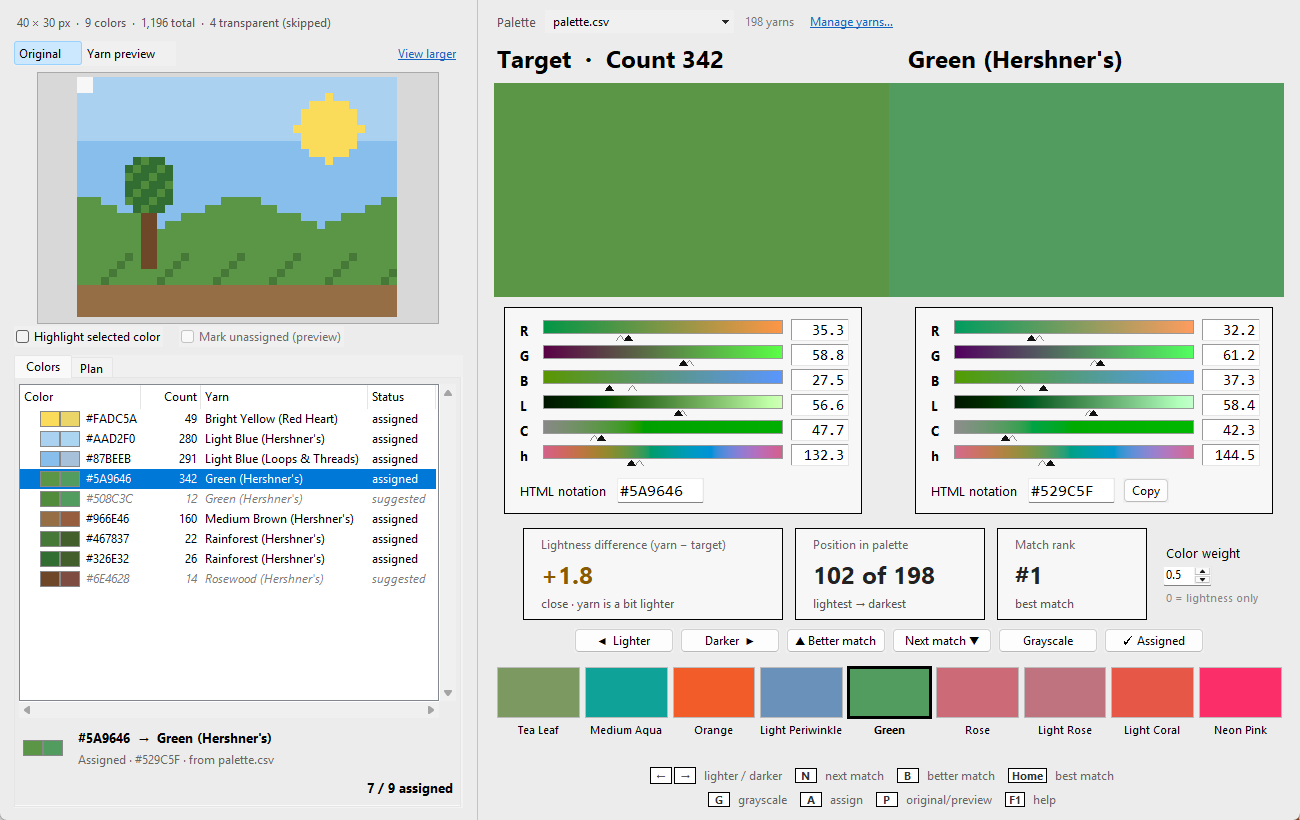
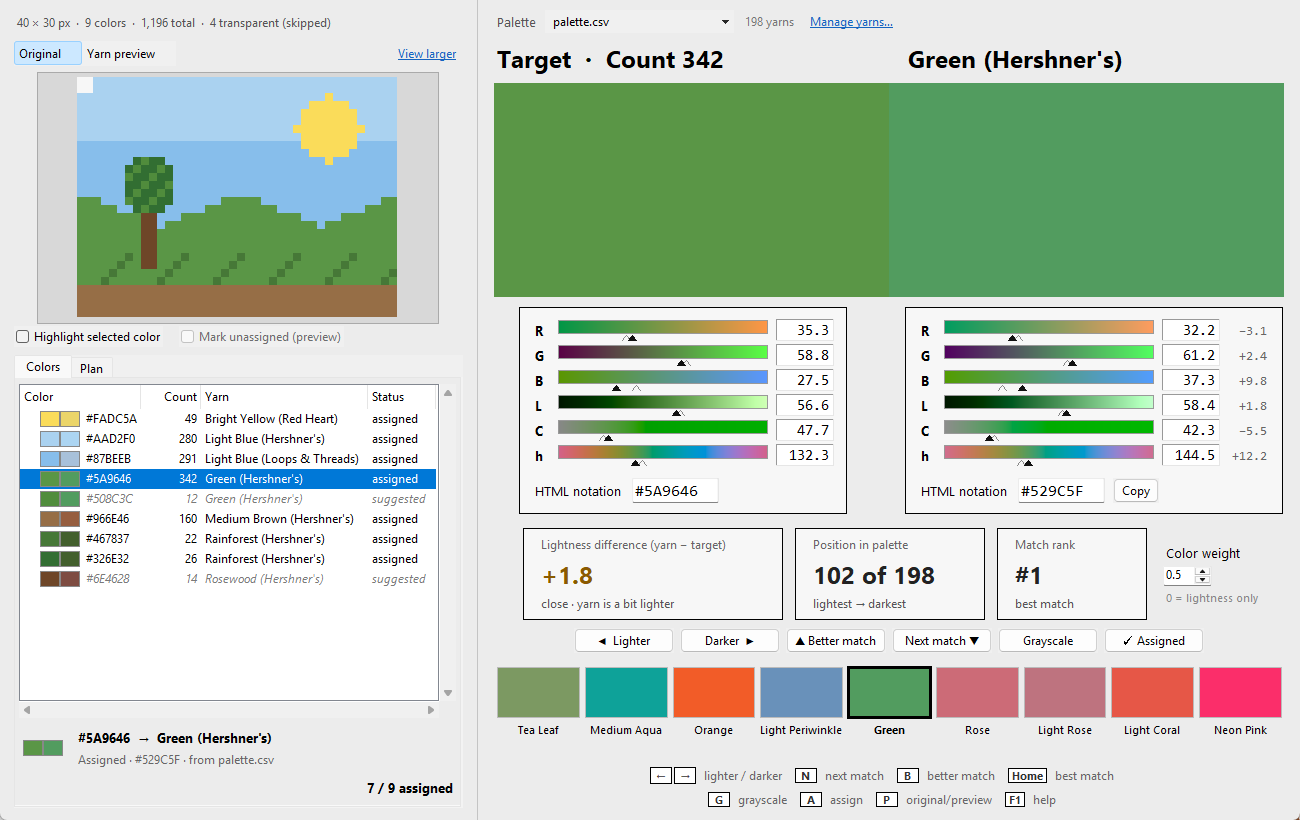
Comparison: yarn minus target per channel, in a column after the yarn's values
Hue goes the shorter way around and is blank for near-grays. The comparison's
bars are 210 px (was 240) to make room; the palette manager keeps 240.

Changed region(s): [[0.7077, 0.3659, 0.9846, 0.6098], [0.4, 0.3963, 0.6462, 0.6098]]

diff --git a/src/latchwork/widgets.py b/src/latchwork/widgets.py
@@ -152,27 +152,42 @@ def _channels(rgb, lch):
     ]
 
 
+def channel_delta(name, value, other):
+    """value - other for a channel; for hue the shorter way around (350 vs 10 is -20)."""
+    d = value - other
+    if name == "h":
+        d = (d + 180) % 360 - 180
+    return d
+
+
 class ColorPanel(tk.Frame):
     """GIMP-style channel readout: label, gradient bar with marker, boxed value, per channel,
-    plus an HTML notation box (editable or read-only)."""
+    plus an HTML notation box (editable or read-only). With deltas=True, a column after the
+    values shows this color minus the `other` one passed to show()."""
 
-    def __init__(self, parent, hex_var, editable, on_copy=None):
+    def __init__(self, parent, hex_var, editable, on_copy=None, deltas=False, bar_w=BAR_W):
         super().__init__(parent, bg=PANEL_BG, bd=1, relief="solid", padx=12, pady=10)
-        self.bars, self.values, self.images = [], [], []
+        self.bar_w = bar_w
+        self.bars, self.values, self.images, self.deltas = [], [], [], []
         for row, name in enumerate("RGBLCh"):
             tk.Label(self, text=name, font=("Segoe UI", 10, "bold"), bg=PANEL_BG, width=2,
                      anchor="w").grid(row=row, column=0, sticky="w")
-            bar = tk.Canvas(self, width=BAR_W, height=BAR_H + MARK_H, bg=PANEL_BG,
+            bar = tk.Canvas(self, width=bar_w, height=BAR_H + MARK_H, bg=PANEL_BG,
                             highlightthickness=0)
             bar.grid(row=row, column=1, padx=(4, 8), pady=2)
             val = tk.Label(self, font=VALUE_FONT, bg="white", width=6, anchor="e",
                            relief="sunken", bd=1, padx=4)
             val.grid(row=row, column=2, sticky="e")
+            if deltas:
+                d = tk.Label(self, font=("Consolas", 10), bg=PANEL_BG, fg="#666", width=6,
+                             anchor="e")
+                d.grid(row=row, column=3, sticky="e", padx=(2, 0))
+                self.deltas.append(d)
             self.bars.append(bar)
             self.values.append(val)
 
         html = tk.Frame(self, bg=PANEL_BG)
-        html.grid(row=6, column=0, columnspan=3, sticky="ew", pady=(10, 0))
+        html.grid(row=6, column=0, columnspan=4, sticky="ew", pady=(10, 0))
         tk.Label(html, text="HTML notation", font=UI_FONT, bg=PANEL_BG).pack(side="left")
         self.entry = ttk.Entry(html, textvariable=hex_var, font=("Consolas", 12), width=9,
                                state="normal" if editable else "readonly")
@@ -187,34 +202,43 @@ class ColorPanel(tk.Frame):
         every bar for comparison; no hue marker when either color is near gray."""
         self.images = []
         if rgb is None:
+            for d in self.deltas:
+                d.config(text="")
             for bar, val in zip(self.bars, self.values):
                 bar.delete("all")
-                bar.create_rectangle(0, 0, BAR_W - 1, BAR_H - 1, fill="#DDD", outline="#BBB")
+                bar.create_rectangle(0, 0, self.bar_w - 1, BAR_H - 1, fill="#DDD", outline="#BBB")
                 val.config(text="")
             return
         lch = rgb_to_lch(*rgb)
-        ghost = {}
+        ghost, delta = {}, {}
         if other is not None:
             olch = rgb_to_lch(*other)
+            hue_ok = min(lch[1], olch[1]) >= HUE_MIN_C
             ghost = {name: pos for name, _, pos, _ in _channels(other, olch)
-                     if name != "h" or min(lch[1], olch[1]) >= HUE_MIN_C}
+                     if name != "h" or hue_ok}
+            theirs = {name: v for name, v, _, _ in _channels(other, olch)}
+            delta = {name: channel_delta(name, value, theirs[name])
+                     for name, value, _, _ in _channels(rgb, lch) if name != "h" or hue_ok}
+        for name, d in zip("RGBLCh", self.deltas):
+            d.config(text=("%+.1f" % delta[name]).replace("-", "−")
+                     if name in delta else "")
         for (name, value, pos, sample), bar, val in zip(_channels(rgb, lch),
                                                         self.bars, self.values):
             bar.delete("all")
-            img = tk.PhotoImage(width=BAR_W, height=BAR_H)
-            row = "{" + " ".join(to_hex(*sample(x / (BAR_W - 1))) for x in range(BAR_W)) + "}"
-            img.put(row, to=(0, 0, BAR_W, BAR_H))
+            w = self.bar_w
+            img = tk.PhotoImage(width=w, height=BAR_H)
+            row = "{" + " ".join(to_hex(*sample(x / (w - 1))) for x in range(w)) + "}"
+            img.put(row, to=(0, 0, w, BAR_H))
             self.images.append(img)  # keep a reference or Tk drops the image
             bar.create_image(0, 0, image=img, anchor="nw")
-            bar.create_rectangle(0, 0, BAR_W - 1, BAR_H - 1, outline="#999")
+            bar.create_rectangle(0, 0, w - 1, BAR_H - 1, outline="#999")
             if name in ghost:
                 self._marker(bar, ghost[name], fill="", outline="#888")
             self._marker(bar, pos, fill="#111", outline="#111")
             val.config(text="%.1f" % value)
 
-    @staticmethod
-    def _marker(bar, pos, fill, outline):
-        x = 1 + pos * (BAR_W - 3)
+    def _marker(self, bar, pos, fill, outline):
+        x = 1 + pos * (self.bar_w - 3)
         top = BAR_H + 1
         bar.create_polygon(x, top, x - 5, top + MARK_H - 1, x + 5, top + MARK_H - 1,
                            fill=fill, outline=outline)

diff --git a/src/latchwork/app.py b/src/latchwork/app.py
@@ -25,6 +25,7 @@ from .widgets import ColorPanel, StatCard, Tooltip, describe_delta_L
 ROOT = os.path.dirname(os.path.dirname(os.path.dirname(os.path.abspath(__file__))))
 DATA_DIR = os.path.join(ROOT, "data")
 DEFAULT_PALETTE = os.path.join(DATA_DIR, "palette.csv")
+COMPARE_BAR_W = 210   # channel bars in the comparison: room for the yarn's difference column
 SETTINGS = os.path.join(ROOT, "settings", "latchwork_settings.json")  # per-user, not in git
 OLD_SETTINGS = os.path.join(ROOT, "latchwork_settings.json")          # before the data/ move
 
@@ -274,9 +275,10 @@ class App:
 
         self.hex_var = tk.StringVar()
         self.yarn_hex_var = tk.StringVar()
-        self.target_panel = ColorPanel(r, self.hex_var, editable=True)
+        self.target_panel = ColorPanel(r, self.hex_var, editable=True, bar_w=COMPARE_BAR_W)
         self.target_panel.grid(row=2, column=0, sticky="n", padx=16, pady=4)
-        self.yarn_panel = ColorPanel(r, self.yarn_hex_var, editable=True, on_copy=self.copy_hex)
+        self.yarn_panel = ColorPanel(r, self.yarn_hex_var, editable=True, on_copy=self.copy_hex,
+                                     deltas=True, bar_w=COMPARE_BAR_W)
         self.yarn_entry = self.yarn_panel.entry
         self.yarn_hex_var.trace_add("write", lambda *_: self.on_yarn_hex_changed())
         self.yarn_entry.bind("<FocusOut>", lambda e: self.reset_yarn_hex())

diff --git a/src/latchwork/help.py b/src/latchwork/help.py
@@ -102,7 +102,7 @@ Pixel art is more vivid than any yarn; high weights chase colorfulness and light
 - Ctrl+1 … Ctrl+9: switch to palette 1–9 of the palette list.
 - F1: this help.
 
-The hollow markers on the bars (R, G, B, L, C and h) show the other side's value, so the difference between target and yarn is visible at a glance (no hue marker for near-grays, whose hue means little).
+The hollow markers on the bars (R, G, B, L, C and h) show the other side's value, and the small numbers right of the yarn's values are yarn minus target per channel (hue the shorter way around the circle), so the difference between target and yarn is visible at a glance (no hue marker or difference for near-grays, whose hue means little).
 """),
     ("Palettes and brands", """
 # Palettes and brands

diff --git a/docs/DESIGN.md b/docs/DESIGN.md
@@ -82,8 +82,10 @@ starts at #1 again. The Match rank card shows the current yarn's rank. A yarn al
 assigned to another color of the rug gets an "Already used for" badge listing those colors
 and a dot on its strip tile (assignments only, not suggestions; the ranking is unchanged,
 since a shared yarn merges two colors on the rug, which is sometimes wanted and sometimes
-not). Hollow markers on every bar (R, G, B, L, C, h) show the other side's value (no hue marker
-below chroma 5, where hue means little).
+not). Hollow markers on every bar (R, G, B, L, C, h) show the other side's value, and a
+column right of the yarn's values gives yarn − target per channel, in the same scale as the
+values (R, G, B 0–100); hue goes the shorter way around, so 350° vs 10° is −20. No hue
+marker or difference below chroma 5, where hue means little.
 
 ## Palettes (`palette.py`, `palette_window.py`)
 
